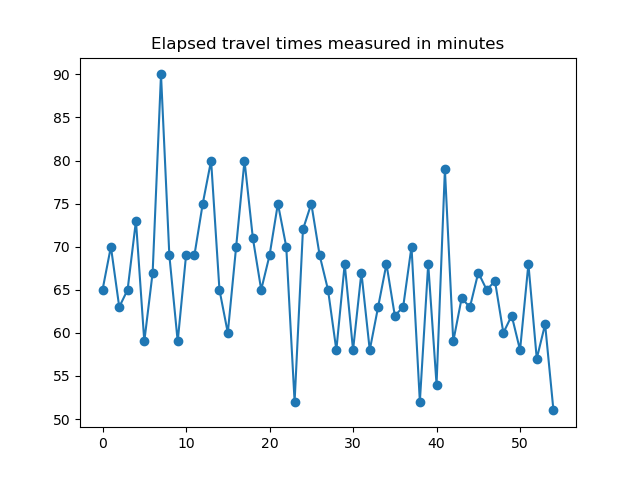
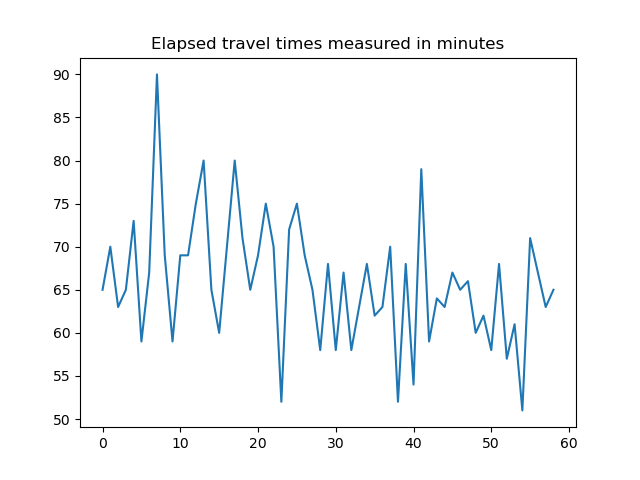
new changes to analytics file

diff --git a/analytics/analytics.py b/analytics/analytics.py
@@ -11,23 +11,24 @@ input_file_path = os.path.join("./../input_files", file)
 df = pd.read_csv(filepath_or_buffer=input_file_path, sep="|")
 df["observation"] = ""
 
-print(df)
+# print(df)
 
 output_file = "processed_file.csv"
 output_file_path = os.path.join("./../input_files", output_file)
 df.to_csv(output_file_path, sep="|")
 
-print(df)
+# print(df)
 
 import matplotlib.pyplot as plt
 
-elapsed_times = df["elapsed_time (mins)"].to_numpy(copy=True)
-plt.scatter(range(len(elapsed_times)), elapsed_times)
-df["elapsed_time (mins)"].plot()
-plt.title("Elapsed travel times measured in minutes")
-plt.savefig("output_files/times_plot.png")
+for direction in df["direction"].unique().tolist():
+    print(" DIRECTION ", direction)
+    sub_df = df.loc[df["direction"] == direction].reset_index()
+    elapsed_times = sub_df["elapsed_time (mins)"].to_numpy(copy=True)
+    plt.scatter(range(len(elapsed_times)), elapsed_times)
+    print(sub_df)
+    sub_df["elapsed_time (mins)"].plot()
+    plt.title("Elapsed travel times measured in minutes")
+    # plt.savefig("output_files/times_plot.png")
+plt.legend(["Ida", "", "Vuelta", ""])
 plt.show()
-
-
-
-# plt.show()
